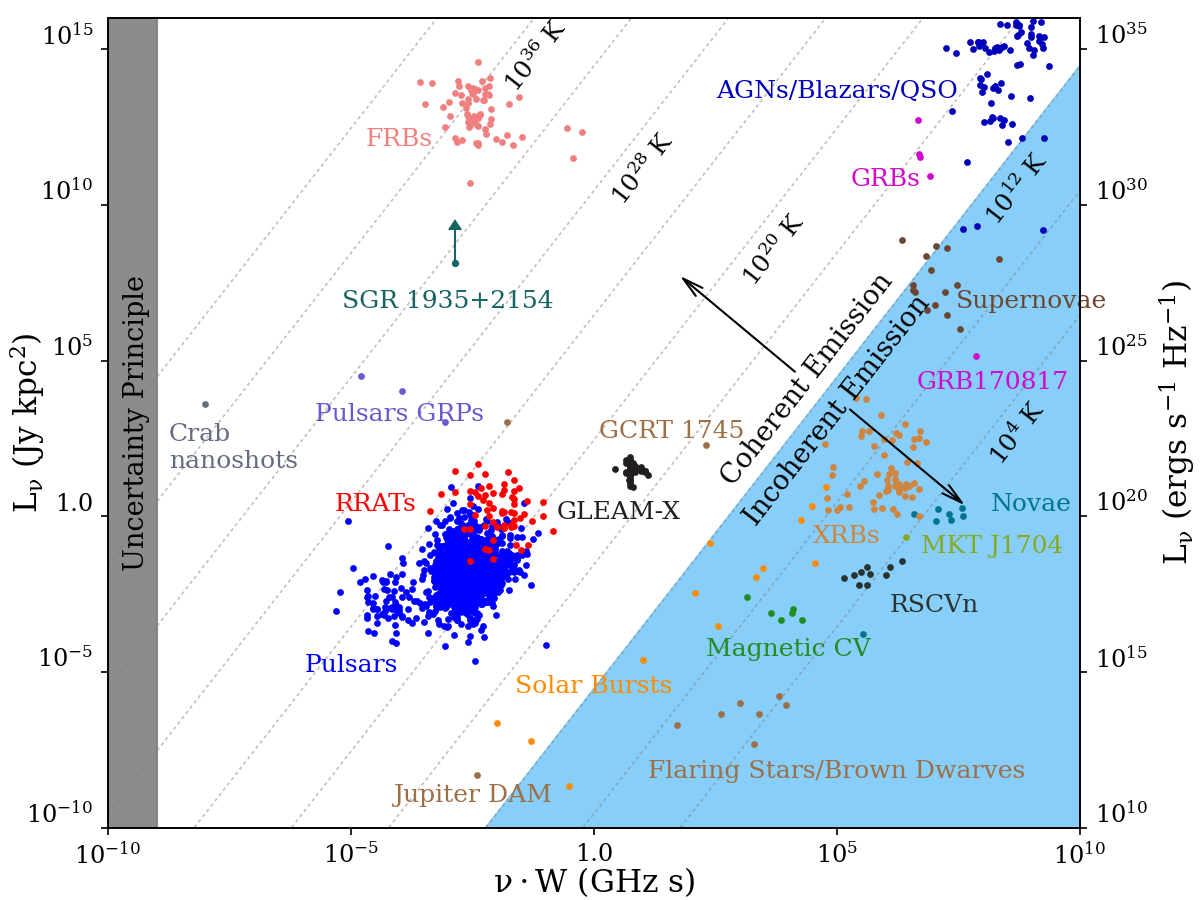
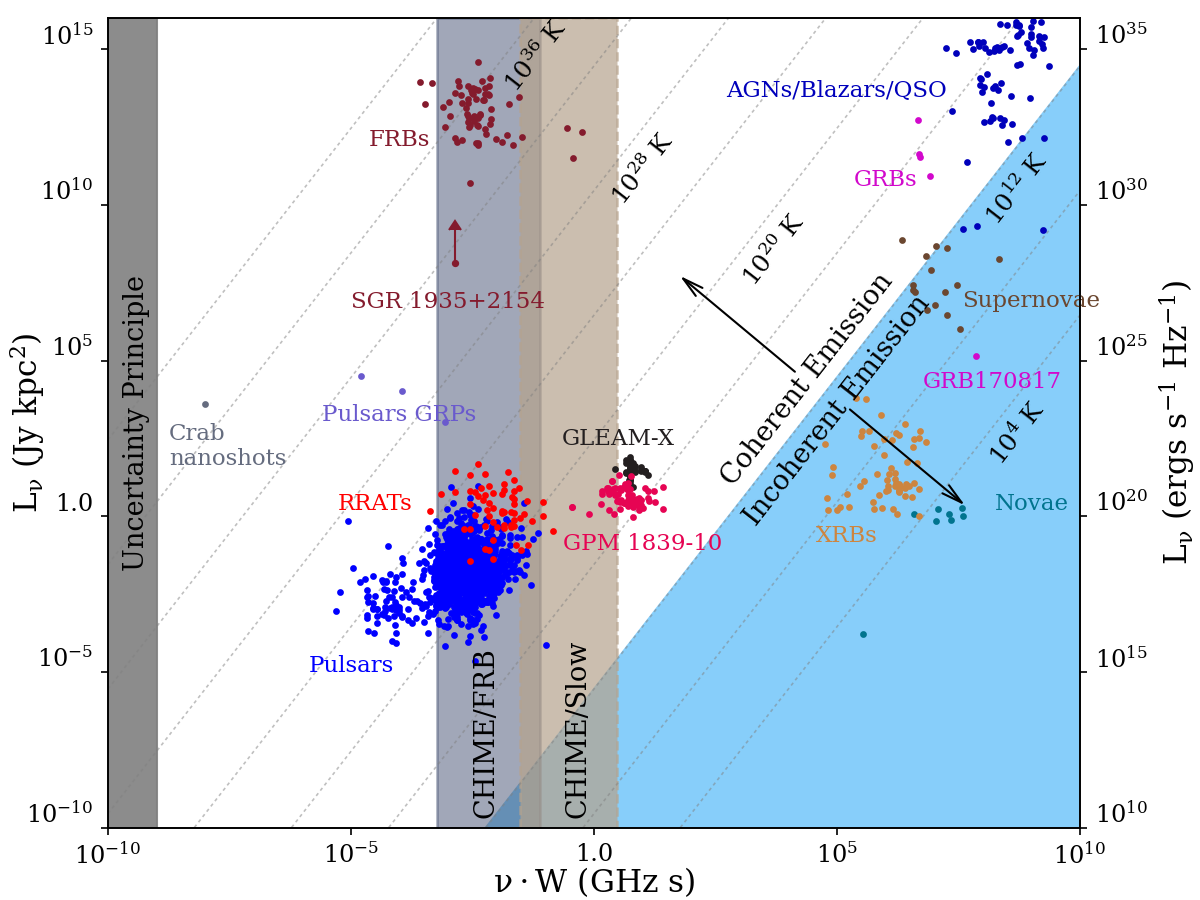
Add GPM 1839-10 data from hurley-walker 2023

diff --git a/phase_space.py b/phase_space.py
@@ -16,9 +16,9 @@ def L_Tb(nuW:np.array, Tb:float) -> np.array:
         = (3.621e+22)*L/(nu.W)**2
         = (         )*L/x**2
      --> L = T_B*x**2*(2.761e-23)    Watts/Hz
-           = [ ]*(1.05025e-11)  Jy,kpc^2
+           = [ ]*(1.05025e-13)  Jy,kpc^2
  
-    NB. 1 W.Hz^{-1} == 1.05026*10^{-11} Jy.kpc^2
+    NB. 1 W.Hz^{-1} == 1.05026*10^{-13} Jy.kpc^2
 
     Args:
         nuW (np.array): Fiducial width
@@ -84,12 +84,7 @@ Tb_text = np.isin(Tbs, [1e4, 1e12, 1e20, 1e28, 1e36])  # only print temp value a
 x_text = [5e8, 5e8, 5e3, 10, 0.065]  # xvals to calc. temp value text position
 j = 0  # iterator for text
 for i, Tb in enumerate(Tbs):
-    # set zorder of Temp line such that it is not behind fill_between
-    if Tb < 1e13:
-        zorder=1
-    else:
-        zorder=0
-    ax1.plot(xticks, L_Tb(xticks, Tb), ls='--', lw=.8, c='#808080', alpha=0.5, dashes=(2, 2), zorder=zorder)
+    ax1.plot(xticks, L_Tb(xticks, Tb), ls='--', lw=.8, c='#808080', alpha=0.5, dashes=(2, 2), zorder=1)
     if Tb_text[i]:
         # print temp value text
         ax1.text(x_text[j], L_Tb(x_text[j], Tb), f"10$^{{{np.log10(Tb):2.0f}}}$ K",
@@ -114,9 +109,16 @@ ax1.annotate("", xy=(x1+dx, y1 - dx ), xytext=(x1, y1),
 ax1.annotate("", xy=(x2-dx, y2 + dx ), xytext=(x2, y2),
              arrowprops=dict(arrowstyle="->, head_length=1,head_width=0.25"), xycoords=trans)
 
+# Add CHIME/Slow and CHIME/FRB range
+ax1.axvspan(1e-3*.6, 128e-3*.6, color='#445172', lw=1.2, alpha=0.5, zorder=0)
+ax1.text(.375, 0.02, "CHIME/FRB", fontsize=13, rotation=90, ha='left', transform=trans)
+
+ax1.axvspan(50e-3*.6, 5*.6, color='#b6a38d', ls='--', lw=1.2, alpha=0.7, zorder=0)
+ax1.text(0.47, 0.02, "CHIME/Slow", fontsize=13, rotation=90, ha='left', transform=trans)
+
 # set marker and fontsize for source points and labels
 ms=5
-fs=12
+fs=11
 
 # plot pulsars
 psr = np.loadtxt(data_path.joinpath("psrs_2"), usecols=(4,5))
@@ -141,19 +143,37 @@ ax1.text(0.275, 0.4, "RRATs", c='#FF0000', fontsize=fs, va='center', ha='center'
 
 # plot FRBs
 frb = np.loadtxt(data_path.joinpath("frbs_vals_to_plot"), usecols=(1,0), skiprows=1)
-ax1.scatter(*frb.T, c="#F08080", s=ms)
-ax1.text(0.3, 0.85, "FRBs", c='#F08080', fontsize=fs, va='center', ha='center', transform=trans)
+ax1.scatter(*frb.T, c="#841b2d", s=ms)
+ax1.text(0.3, 0.85, "FRBs", c='#841b2d', fontsize=fs, va='center', ha='center', transform=trans)
 
 # plot SGR 1935+2154
 sgr = np.loadtxt(data_path.joinpath("SGR1935+2154"))
 ax1.errorbar(sgr[2]*sgr[3], sgr[0]*sgr[1]**2, yerr=sgr[0]*sgr[1]**3,
-             lolims=True, fmt=".", ms=ms, lw=1, c='#166461')
-ax1.text(0.35, 0.65, "SGR 1935+2154", c='#166461', fontsize=fs, va='center', ha='center', transform=trans)
+             lolims=True, fmt=".", ms=ms, lw=1, c='#841b2d')
+ax1.text(0.35, 0.65, "SGR 1935+2154", c='#841b2d', fontsize=fs, va='center', ha='center', transform=trans)
 
 # plot GLEAM-X
 gx = np.loadtxt(data_path.joinpath("luminosity_nuW.txt"), usecols=(1, 0), skiprows=1)
 ax1.scatter(*gx.T, c="#231F20", s=ms)
-ax1.text(0.525, 0.39, "GLEAM-X", c='#231F20', fontsize=fs, va='center', ha='center', transform=trans)
+ax1.text(0.525, 0.48, "GLEAM-X", c='#231F20', fontsize=fs, va='center', ha='center', transform=trans)
+
+# plot GPM 1839-10
+# load data (freq, flux @ freq, flux @ 1GHz, fluence @ freq)
+gpm_data = np.loadtxt(data_path.joinpath("GPM1839-10_pulse_table.csv"), delimiter=",", usecols=(4, 5, 6, 7))
+gpm_data = gpm_data[gpm_data[:, 1] != 0]
+gpm_dist = 5.7 * 3.0857e21  # only mean dist. taken, errors are ignored
+nu_w = gpm_data[:, 0]*1e-3 * gpm_data[:, 3] / gpm_data[:, 1]  # in sec, approximated as fluence / peak flux
+nonzero_nu_w = nu_w > 0
+nu_w = nu_w[nonzero_nu_w]
+
+# Luminosity of each pulse determined using Eqn 4 in Methods section of Hurley-Walker et al 2023. Omega_1GHz is set to 1
+alpha = -3.17  # only the mean value take, errors ignored
+beta = -0.26
+q = -0.56  # only the mean value take, errors ignored
+L0 = 4 * np.pi * gpm_dist**2 * gpm_data[:, 2]*1e-3 * np.sqrt(np.pi/abs(q)) * np.exp(-(alpha + beta + 1)**2/(4*abs(q))) # Jy
+L0 = L0[nonzero_nu_w]* 1.05e-43  # Jy kpc^2
+ax1.scatter(nu_w, L0, c="#e60453", s=ms)
+ax1.text(0.55, 0.35, "GPM 1839-10", c='#e60453', fontsize=fs, va='center', ha='center', transform=trans)
 
 # plot AGNs/Blazars/QSO
 agns = np.loadtxt(data_path.joinpath("Gosia_AGN_QSO_Blazar_TDE2"), usecols=(1, 6, 8), skiprows=1)
@@ -185,36 +205,6 @@ xrbs = np.loadtxt(data_path.joinpath("Gosia_XRB2"), usecols=(1, 6, 8))
 ax1.scatter(xrbs[:, 0]*86400*xrbs[:, 2], xrbs[:, 1]*1.05026e-20, c="#CD853F", s=ms)
 ax1.text(0.76, 0.36, "XRBs", c='#CD853F', fontsize=fs, va='center', ha='center', transform=trans)
 
-# misc (Jupiter DAM and GCRT)
-misc = np.loadtxt(data_path.joinpath("misc"), usecols=(0, 1))
-ax1.scatter(*misc.T, c="#9d6f46", s=ms)
-ax1.text(0.375, 0.04, "Jupiter DAM", c='#9d6f46', fontsize=fs, va='center', ha='center', transform=trans)
-ax1.text(0.58, 0.49, "GCRT 1745", c='#9d6f46', fontsize=fs, va='center', ha='center', transform=trans)
-
-# MKT J1704 
-mkt = np.loadtxt(data_path.joinpath("flarey_boi"), usecols=(0, 1))
-ax1.scatter(*mkt.T, c="#87a922", s=ms)
-ax1.text(0.91, 0.348, "MKT J1704", c='#87a922', fontsize=fs, va='center', ha='center', transform=trans)
-
-# RSCVn
-rscv = np.loadtxt(data_path.joinpath("Gosia_RSCVn2"), usecols=(1, 6, 8))
-ax1.scatter(rscv[:, 0]*86400*rscv[:, 2], rscv[:, 1]*1.05026e-20, c="#293432", s=ms)
-ax1.text(0.85, 0.275, "RSCVn", c='#293432', fontsize=fs, va='center', ha='center', transform=trans)
-
-# Magnetic CV
-magcv = np.loadtxt(data_path.joinpath("Gosia_MagCV2"), usecols=(1, 6, 8), skiprows=1)
-ax1.scatter(magcv[:, 0]*86400*magcv[:, 2], magcv[:, 1]*1.05026e-20, c="#228B22", s=ms)
-ax1.text(0.7, 0.22, "Magnetic CV", c='#228B22', fontsize=fs, va='center', ha='center', transform=trans)
-
-# Solar flares
-solar = np.loadtxt(data_path.joinpath("solar_vals"), usecols=(4, 5), skiprows=1)
-ax1.scatter(*solar.T, c="#ff8b00", s=ms)
-ax1.text(0.5, 0.175, "Solar Bursts", c='#ff8b00', fontsize=fs, va='center', ha='center', transform=trans)
-
-# flaring stars
-flstars = np.loadtxt(data_path.joinpath("Gosia_flare_stars2"), usecols=(1, 6, 8), skiprows=1)
-ax1.scatter(flstars[:, 0]*86400*flstars[:, 2], flstars[:, 1]*1.05026e-20, c="#9d6f46", s=ms)
-ax1.text(0.75, 0.07, "Flaring Stars/Brown Dwarves", c='#9d6f46', fontsize=fs, va='center', ha='center', transform=trans)
-
-fig.savefig("phase_space_py.png", dpi=150)
+fig.savefig(data_path.parent.joinpath("phase_space_py.png"), dpi=150)
+fig.savefig(data_path.parent.joinpath("phase_space_py.pdf"))
 plt.show()
